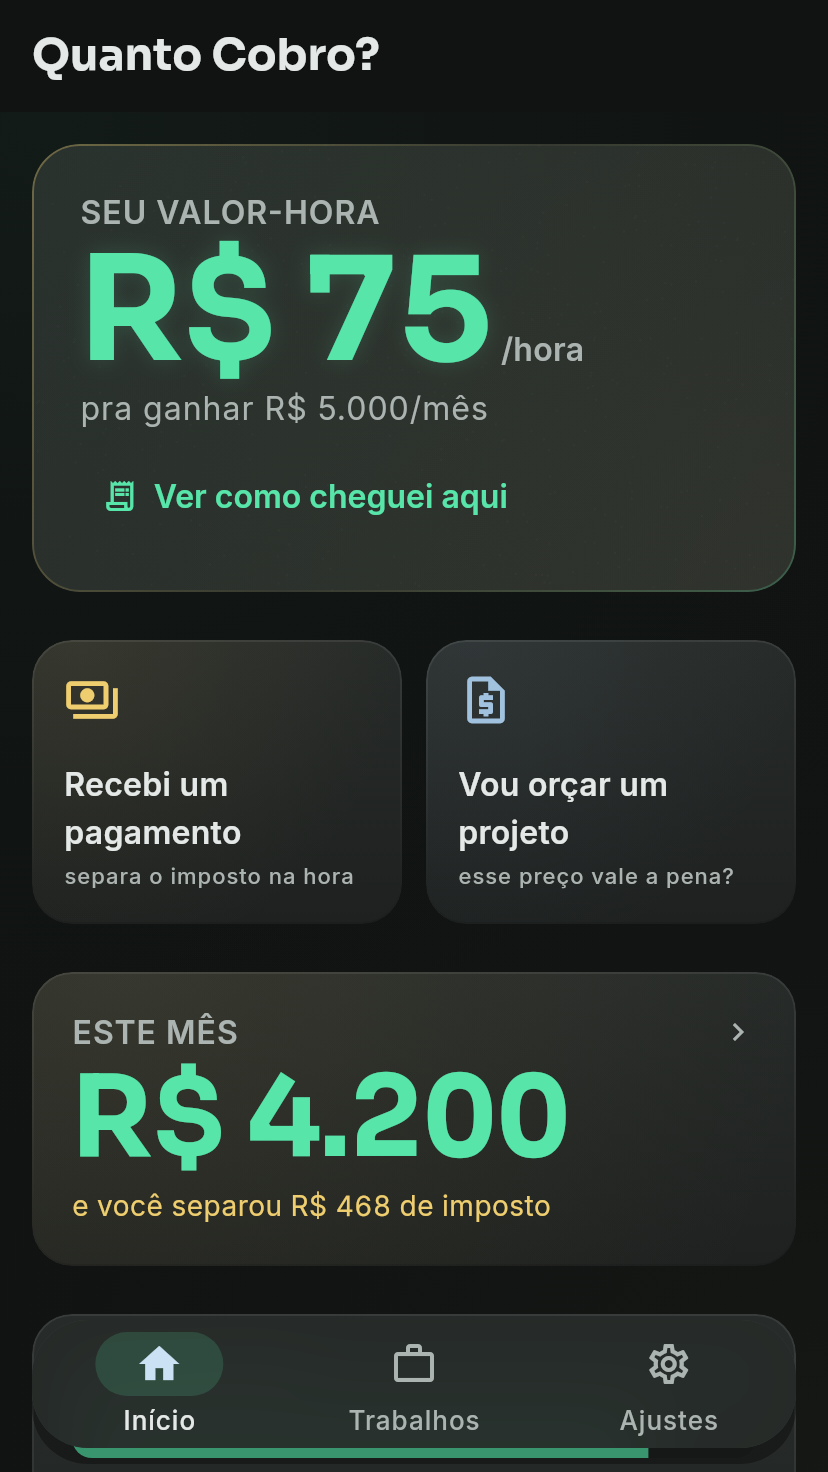
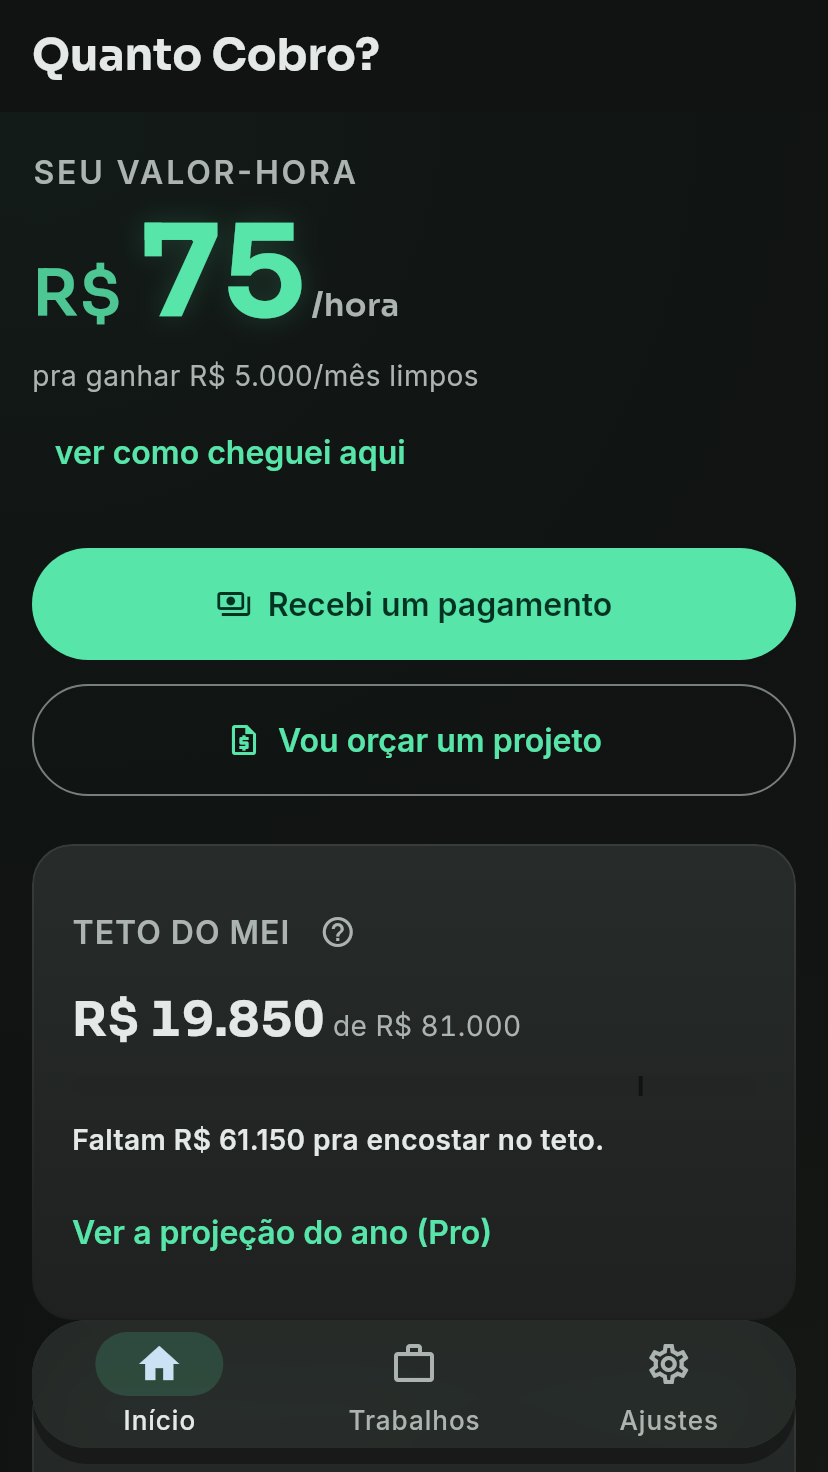
feat(loja): 6 prints de tablet por formato, em 16:9/9:16 e ja na ficha
Os tablet-*.png antigos estavam na ficha da Play e estavam errados: 2560x1600,
16:10 — proporcao que a Play recusa (ela aceita 16:9 ou 9:16, em celular e em
tablet). Estavam tambem com a semente magra, que em tela grande vira dois tercos
de fundo preto.

- prints_loja.dart: dpr por print (o que importa e o pixel final; a largura
  LOGICA e que decide o layout via WindowClass). Dois formatos novos: 7" em pe
  720x1280 @1.5 = 1080x1920, e 10" deitado 1280x720 @2 = 2560x1440.
- Semente de vitrine: 5 trabalhos e 10 entradas em 6 meses, pro grafico mensal e
  as listas PREENCHEREM o enquadramento largo.
- Reserva da semente virou 1% do valor: com 11% e regime MEI o painel estampava
  "guardei R$ 469 de ~R$ 42" (a meta do anel e entrou * reservaPct, e no MEI o
  DAS e boleto fixo). Conta que nao fecha, na ficha da loja.
- Formularios entram PREENCHIDOS (entrada e simulador): campo vazio nao vende, o
  que vende e o numero que o app calcula.
- Curadoria escrita no arquivo: tela de uma coluna centralizada (painel,
  proposta) vai pro bloco de 7", porque deitada deixa faixa preta nas laterais;
  tela com BOTAO primario cortado na borda de baixo esta fora do 10" (Pro e
  simulador caem ai). Lista cortada le como rolagem e passa; botao cortado le
  como app quebrado.

Subidos na ficha pt-BR por API (edits.images): 6 em sevenInch e 6 em tenInch,
substituindo os 3+3 antigos. As capturas de celular nao foram tocadas.

diff --git a/test/ferramentas/prints_loja.dart b/test/ferramentas/prints_loja.dart
@@ -12,6 +12,10 @@ import 'package:quantocobro/core/providers.dart';
 import 'package:quantocobro/app/app.dart';
 import 'package:quantocobro/core/theme/app_theme.dart';
 import 'package:quantocobro/features/calc/calc_screen.dart';
+import 'package:quantocobro/features/entrada/entrada_screen.dart';
+import 'package:quantocobro/features/historico/historico_screen.dart';
+import 'package:quantocobro/features/resultado/resultado_screen.dart';
+import 'package:quantocobro/features/simulador/simulador_screen.dart';
 import 'package:shared_preferences/shared_preferences.dart';
 
 /// Gera as capturas da ficha da Play — **celular e tablet**.
@@ -42,8 +46,8 @@ void main() {
 
   for (final _Print p in _prints) {
     testWidgets('print · ${p.arquivo}', (WidgetTester tester) async {
-      tester.view.devicePixelRatio = 2.0;
-      tester.view.physicalSize = p.tamanho * 2.0;
+      tester.view.devicePixelRatio = p.dpr;
+      tester.view.physicalSize = p.tamanho * p.dpr;
       addTearDown(tester.view.resetPhysicalSize);
       addTearDown(tester.view.resetDevicePixelRatio);
 
@@ -80,24 +84,71 @@ void main() {
 typedef _Print = ({
   String arquivo,
   Size tamanho,
+  double dpr,
   bool solta,
   Widget Function()? tela,
   Future<void> Function(WidgetTester)? depois,
 });
 
-/// Formatos da ficha: celular (9:16) e tablet 10" (16:10 deitado).
+/// Formatos da ficha. **A Play só aceita 16:9 ou 9:16** em captura de celular e
+/// de tablet — 16:10 (o formato físico de tablet Android) é recusado no upload.
+/// Por isso o tablet aqui é 16:9, não a proporção do aparelho: a ficha é uma
+/// vitrine com régua própria.
+///
+/// E o lado mínimo muda por bloco: 320px no celular, mas **1080px** pra
+/// qualificar à promoção da Play (o aviso do console) e 1080px é o piso do
+/// bloco de tablet. Daí o `dpr` por print em vez de 2.0 fixo — o que importa é
+/// o PIXEL final, e a largura LÓGICA é o que decide o layout que aparece
+/// (`WindowClass`, em core/ui/breakpoints.dart).
 const Size _celular = Size(414, 736);
-const Size _tablet = Size(1280, 800);
+
+/// 720dp de largura → `medium`: trilho lateral e uma coluna. É o tablet de 7"
+/// em pé, e é o enquadramento que PREENCHE — em pé não sobra faixa vazia.
+/// 720×1280 @1.5 = **1080×1920** (9:16).
+const Size _tablet7 = Size(720, 1280);
+const double _dpr7 = 1.5;
+
+/// 1280dp → `expanded`: duas colunas de verdade (mestre-detalhe, calculadora).
+/// 1280×720 @2 = **2560×1440** (16:9).
+const Size _tablet10 = Size(1280, 720);
+const double _dpr10 = 2.0;
 
 Future<void> _irPraAba(WidgetTester t, IconData icone) async {
   await t.tap(find.byIcon(icone));
   await t.pumpAndSettle();
 }
 
+/// Casca mínima pra uma tela que é empilhada ACIMA da navegação no app real
+/// (fluxo focado). Sem ela a tela solta sai sem tema e sem Material.
+Widget _solta(Widget tela) => MaterialApp(
+  debugShowCheckedModeBanner: false,
+  theme: AppTheme.dark,
+  home: tela,
+);
+
+Future<void> _continuar(WidgetTester t, int vezes) async {
+  for (int i = 0; i < vezes; i++) {
+    await t.tap(find.text('Continuar'));
+    await t.pumpAndSettle();
+  }
+}
+
+/// Digita nos campos de texto na ordem em que eles aparecem. Formulário vazio é
+/// print ruim: o que vende é o RESULTADO — "guarde R$ 279" só existe depois de
+/// alguém digitar o valor.
+Future<void> _digitar(WidgetTester t, List<String> valores) async {
+  final Finder campos = find.byType(TextField);
+  for (int i = 0; i < valores.length; i++) {
+    await t.enterText(campos.at(i), valores[i]);
+    await t.pumpAndSettle();
+  }
+}
+
 final List<_Print> _prints = <_Print>[
   (
     arquivo: 'celular-1-inicio',
     tamanho: _celular,
+    dpr: 2.0,
     solta: false,
     tela: null,
     depois: null,
@@ -105,22 +156,78 @@ final List<_Print> _prints = <_Print>[
   (
     arquivo: 'celular-2-trabalhos',
     tamanho: _celular,
+    dpr: 2.0,
+    solta: false,
+    tela: null,
+    depois: (WidgetTester t) => _irPraAba(t, Icons.work_outline),
+  ),
+
+  // ---------------------------------------------------------------- tablet 7"
+  // Em pé, 720dp: trilho lateral + uma coluna. Em pé sobra menos fundo, então
+  // aqui entram também as telas de fluxo focado (uma coluna por natureza).
+  (
+    arquivo: 'tablet7-1-inicio',
+    tamanho: _tablet7,
+    dpr: _dpr7,
+    solta: false,
+    tela: null,
+    depois: null,
+  ),
+  (
+    arquivo: 'tablet7-2-entrada',
+    tamanho: _tablet7,
+    dpr: _dpr7,
+    solta: true,
+    tela: () => _solta(const EntradaScreen()),
+    depois: (WidgetTester t) => _digitar(t, <String>['2500']),
+  ),
+  (
+    arquivo: 'tablet7-3-calculadora',
+    tamanho: _tablet7,
+    dpr: _dpr7,
+    solta: true,
+    tela: () => _solta(CalcScreen(initialDraft: Area.padrao())),
+    depois: (WidgetTester t) => _continuar(t, 2),
+  ),
+  (
+    arquivo: 'tablet7-4-simulador',
+    tamanho: _tablet7,
+    dpr: _dpr7,
+    solta: true,
+    tela: () => _solta(const SimuladorScreen()),
+    depois: (WidgetTester t) => _digitar(t, <String>['4000', '30', '350']),
+  ),
+  (
+    arquivo: 'tablet7-5-trabalhos',
+    tamanho: _tablet7,
+    dpr: _dpr7,
     solta: false,
     tela: null,
     depois: (WidgetTester t) => _irPraAba(t, Icons.work_outline),
   ),
   (
-    arquivo: 'tablet-1-inicio',
-    tamanho: _tablet,
-    solta: false,
-    tela: null,
+    arquivo: 'tablet7-6-historico',
+    tamanho: _tablet7,
+    dpr: _dpr7,
+    solta: true,
+    tela: () => _solta(const HistoricoScreen()),
     depois: null,
   ),
-  // O print que justifica o bloco de tablet inteiro: lista à esquerda,
-  // trabalho aberto à direita, trilho de navegação na lateral.
+
+  // --------------------------------------------------------------- tablet 10"
+  // Deitado, 720dp de ALTURA — o enquadramento mais apertado na vertical. Duas
+  // regras de curadoria saíram de olhar os renders:
+  //
+  //  1. Painel e proposta em tela deitada põem uma coluna centralizada com
+  //     faixa preta nas duas laterais. É o layout correto do app e uma captura
+  //     ruim de loja: eles vão no bloco de 7", em pé.
+  //  2. Tela cujo BOTÃO primário fica cortado na borda de baixo está fora (Pro
+  //     e simulador caem aqui). Lista cortada no meio lê como rolagem e passa;
+  //     botão cortado lê como app quebrado.
   (
-    arquivo: 'tablet-2-mestre-detalhe',
-    tamanho: _tablet,
+    arquivo: 'tablet10-1-mestre-detalhe',
+    tamanho: _tablet10,
+    dpr: _dpr10,
     solta: false,
     tela: null,
     depois: (WidgetTester t) async {
@@ -129,22 +236,45 @@ final List<_Print> _prints = <_Print>[
     },
   ),
   // A calculadora em duas colunas — o valor-hora vivo parado à direita.
-  // Tela solta de propósito: fluxo focado cobre a casca.
   (
-    arquivo: 'tablet-3-calculadora',
-    tamanho: _tablet,
+    arquivo: 'tablet10-2-calculadora',
+    tamanho: _tablet10,
+    dpr: _dpr10,
     solta: true,
-    tela: () => MaterialApp(
-      debugShowCheckedModeBanner: false,
-      theme: AppTheme.dark,
-      home: CalcScreen(initialDraft: Area.padrao()),
-    ),
-    depois: (WidgetTester t) async {
-      for (int i = 0; i < 2; i++) {
-        await t.tap(find.text('Continuar'));
-        await t.pumpAndSettle();
-      }
-    },
+    tela: () => _solta(CalcScreen(initialDraft: Area.padrao())),
+    depois: (WidgetTester t) => _continuar(t, 2),
+  ),
+  (
+    arquivo: 'tablet10-3-entrada',
+    tamanho: _tablet10,
+    dpr: _dpr10,
+    solta: true,
+    tela: () => _solta(const EntradaScreen()),
+    depois: (WidgetTester t) => _digitar(t, <String>['2500']),
+  ),
+  (
+    arquivo: 'tablet10-4-resultado',
+    tamanho: _tablet10,
+    dpr: _dpr10,
+    solta: true,
+    tela: () => _solta(ResultadoScreen(area: Area.padrao())),
+    depois: null,
+  ),
+  (
+    arquivo: 'tablet10-5-historico',
+    tamanho: _tablet10,
+    dpr: _dpr10,
+    solta: true,
+    tela: () => _solta(const HistoricoScreen()),
+    depois: null,
+  ),
+  (
+    arquivo: 'tablet10-6-ajustes',
+    tamanho: _tablet10,
+    dpr: _dpr10,
+    solta: false,
+    tela: null,
+    depois: (WidgetTester t) => _irPraAba(t, Icons.settings_outlined),
   ),
 ];
 
@@ -201,8 +331,33 @@ String? _acharFlutterRoot() {
 }
 
 /// Dados de vitrine: números redondos e nomes plausíveis. Nada de "Teste 1".
+///
+/// **Por que seis trabalhos e meio ano de entradas** e não os dois de antes: em
+/// tela de tablet, lista curta vira dois terços de fundo preto — a captura
+/// parece um app vazio. E o gráfico "quanto entrou por mês" só existe com
+/// movimento: com um mês só ele sai como uma barra sozinha. A semente é a arte
+/// da ficha, não um fixture de teste; ela precisa ser densa o bastante pra
+/// PREENCHER o enquadramento mais largo.
 Map<String, Object> _semente() {
-  final DateTime agora = DateTime(2026, 7, 15);
+  DateTime mes(int m, int dia) => DateTime(2026, m, dia);
+
+  // 1% do valor. **Isto tem que casar com o regime da semente (MEI)**: o painel
+  // calcula a meta do anel de reserva como `entrou * reservaPct/100`, e no MEI
+  // o DAS é boleto fixo — dá ~1% do faturado, não os ~11% de um regime por
+  // percentual. Com 11% aqui, o print saía com "guardei R$ 469 de ~R$ 42": uma
+  // conta que não fecha, estampada na ficha da loja.
+  int reserva(double valor) => (valor * 0.01).round();
+
+  Map<String, dynamic> entrada(double valor, DateTime at, String trabalho) =>
+      Entrada(
+        valor: valor,
+        separado: reserva(valor),
+        regimeTag: 'MEI',
+        at: at,
+        areaId: 'a1',
+        trabalhoId: trabalho,
+      ).toJson();
+
   return <String, Object>{
     'onboarding_done': true,
     'areas_v1': jsonEncode(<String, dynamic>{
@@ -214,39 +369,49 @@ Map<String, Object> _semente() {
         id: 't1',
         areaId: 'a1',
         nome: 'Augusto',
-        criadoEm: agora,
+        criadoEm: mes(7, 2),
         valorCombinado: 4800,
       ).toJson(),
       Trabalho(
         id: 't2',
         areaId: 'a1',
         nome: 'Loja da Ana',
-        criadoEm: agora,
+        criadoEm: mes(6, 18),
+        valorCombinado: 3200,
       ).toJson(),
       Trabalho(
         id: 't3',
         areaId: 'a1',
-        nome: 'Padaria Central',
-        criadoEm: agora,
+        nome: 'Studio Lume',
+        criadoEm: mes(5, 9),
+        valorCombinado: 2600,
+      ).toJson(),
+      Trabalho(
+        id: 't4',
+        areaId: 'a1',
+        nome: 'Clínica Nova',
+        criadoEm: mes(4, 21),
+        valorCombinado: 1900,
+      ).toJson(),
+      Trabalho(
+        id: 't5',
+        areaId: 'a1',
+        nome: 'Café do Porto',
+        criadoEm: mes(3, 14),
+        valorCombinado: 1450,
       ).toJson(),
     ]),
     'entradas_v1': jsonEncode(<Map<String, dynamic>>[
-      Entrada(
-        valor: 2400,
-        separado: 268,
-        regimeTag: 'MEI',
-        at: agora,
-        areaId: 'a1',
-        trabalhoId: 't1',
-      ).toJson(),
-      Entrada(
-        valor: 1800,
-        separado: 200,
-        regimeTag: 'MEI',
-        at: agora.subtract(const Duration(days: 6)),
-        areaId: 'a1',
-        trabalhoId: 't2',
-      ).toJson(),
+      entrada(2400, mes(7, 15), 't1'),
+      entrada(1800, mes(7, 9), 't2'),
+      entrada(2400, mes(6, 27), 't1'),
+      entrada(1400, mes(6, 12), 't3'),
+      entrada(2600, mes(5, 22), 't3'),
+      entrada(1900, mes(5, 6), 't4'),
+      entrada(1450, mes(4, 24), 't5'),
+      entrada(2100, mes(4, 8), 't2'),
+      entrada(1600, mes(3, 19), 't5'),
+      entrada(2200, mes(2, 26), 't4'),
     ]),
   };
 }

diff --git a/docs/planning/14-FICHA-LOJA.md b/docs/planning/14-FICHA-LOJA.md
@@ -58,7 +58,10 @@ O Quanto Cobro? é um aplicativo independente. Ele NÃO é afiliado, associado, 
 - ✅ Ícone 512: `docs/screenshots/loja/icone-play-512.png`
 - ✅ Feature graphic 1024×500: `docs/screenshots/loja/feature-graphic-1024x500.png`
   (gerado por `test/ferramentas/feature_graphic.dart`, identidade Cofre Aberto)
-- ✅ 5 capturas: `docs/screenshots/loja/celular-*.png`, `tablet-*.png`
+- ✅ Capturas: `docs/screenshots/loja/celular-*.png` (2), `tablet7-*.png` (6, em
+  pé 1080×1920) e `tablet10-*.png` (6, deitado 2560×1440). Todas em **16:9 ou
+  9:16** — a Play recusa 16:10, que era a proporção dos `tablet-*.png` antigos.
+  Regenera com `flutter test test/ferramentas/prints_loja.dart --update-goldens`.
 
 ## Regra de estilo
 

diff --git a/docs/planning/12-CHECKLIST-PUBLICACAO.md b/docs/planning/12-CHECKLIST-PUBLICACAO.md
@@ -22,7 +22,8 @@
 - ✅ Assinatura de release lê `key.properties`; R8 ligado com regras de keep.
 - ✅ Telemetria escrita e opt-in (desligada por padrão) — falta só o destino.
 - ✅ Ícone adaptativo (todas as densidades) + `icone-play-512.png`.
-- ✅ 5 capturas da ficha em `docs/screenshots/loja/`.
+- ✅ 14 capturas da ficha em `docs/screenshots/loja/` (2 celular · 6 tablet 7" ·
+  6 tablet 10"), todas em 16:9/9:16 como a Play exige.
 - ✅ Fluxo de vínculo (entrada↔trabalho), Pro premium, três bugs do teste.
 
 ---
